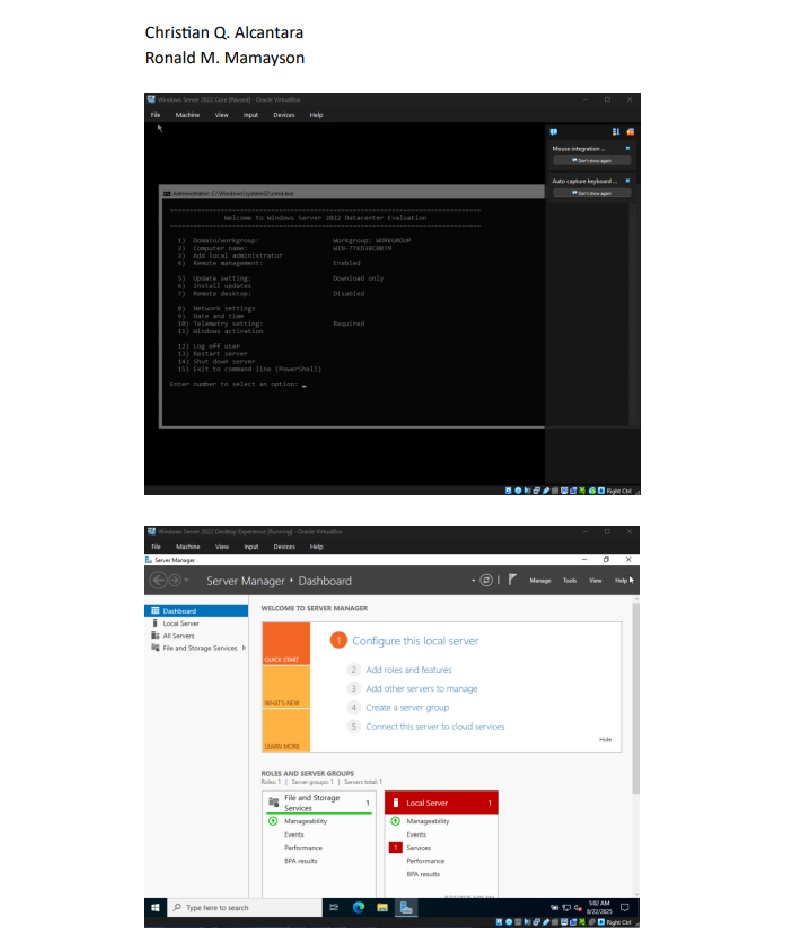
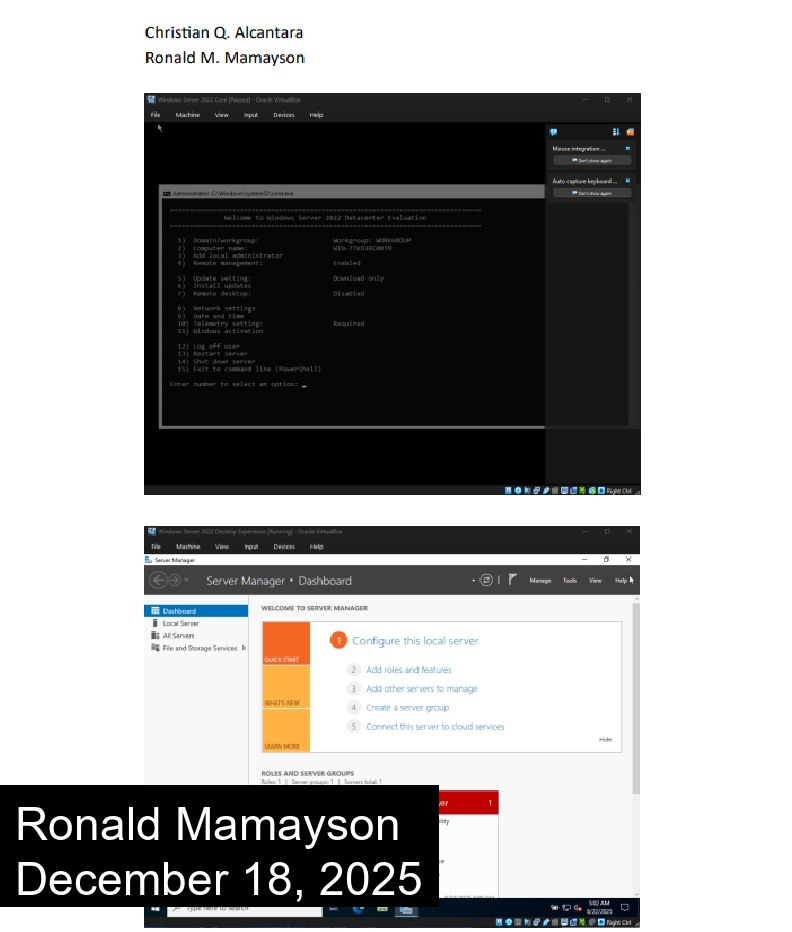
Update project images with name and date overlay

Changed region(s): [[0.0, 0.8401, 0.5758, 0.9957]]

diff --git a/scripts/overlay_text.py b/scripts/overlay_text.py
@@ -1,0 +1,97 @@
+import sys
+from pathlib import Path
+from datetime import datetime
+
+from PIL import Image, ImageDraw, ImageFont
+
+
+def find_font() -> ImageFont.FreeTypeFont:
+    candidates = [
+        r"C:\Windows\Fonts\arial.ttf",
+        r"C:\Windows\Fonts\segoeui.ttf",
+        r"C:\Windows\Fonts\calibri.ttf",
+    ]
+    for p in candidates:
+        if Path(p).exists():
+            return ImageFont.truetype(p, size=48)
+    return ImageFont.load_default()
+
+
+def overlay_text(
+    src_path: Path,
+    name: str,
+    date_str: str,
+    dst_path: Path | None = None,
+) -> Path:
+    img = Image.open(src_path).convert("RGBA")
+    W, H = img.size
+
+    # dynamic sizing
+    base_font = find_font()
+    # Scale font roughly with image height
+    scale = max(32, int(H * 0.05))
+    try:
+        font = ImageFont.truetype(base_font.path, size=scale)  # type: ignore
+    except Exception:
+        font = base_font
+
+    draw = ImageDraw.Draw(img, "RGBA")
+
+    # Text content
+    lines = [name, date_str]
+
+    # Measure box
+    padding_x = int(W * 0.02)
+    padding_y = int(H * 0.015)
+    line_heights = []
+    max_w = 0
+    for line in lines:
+        bbox = draw.textbbox((0, 0), line, font=font)
+        w = bbox[2] - bbox[0]
+        h = bbox[3] - bbox[1]
+        max_w = max(max_w, w)
+        line_heights.append(h)
+    box_w = max_w + padding_x * 2
+    box_h = sum(line_heights) + padding_y * (len(lines) + 1)
+
+    # Bottom-left position
+    x = padding_x
+    y = H - box_h - padding_y
+
+    # Background rectangle (semi-transparent black)
+    rect_color = (0, 0, 0, 140)
+    draw.rectangle([(x - padding_x, y - padding_y), (x - padding_x + box_w, y - padding_y + box_h)], fill=rect_color)
+
+    # Text colors
+    text_color = (255, 255, 255, 255)
+
+    ty = y
+    for i, line in enumerate(lines):
+        draw.text((x, ty), line, font=font, fill=text_color)
+        ty += line_heights[i] + padding_y
+
+    if dst_path is None:
+        dst_path = src_path
+
+    # Save as JPEG, flatten alpha
+    out_img = img.convert("RGB")
+    out_img.save(dst_path, format="JPEG", quality=92)
+    return dst_path
+
+
+def main():
+    if len(sys.argv) < 4:
+        print("Usage: python scripts/overlay_text.py <image_path> <name> <date_text> [<output_path>]")
+        sys.exit(1)
+
+    src = Path(sys.argv[1])
+    name = sys.argv[2]
+    date_text = sys.argv[3]
+    dst = Path(sys.argv[4]) if len(sys.argv) > 4 else None
+
+    result = overlay_text(src, name, date_text, dst)
+    print(f"Saved: {result}")
+
+
+if __name__ == "__main__":
+    main()
